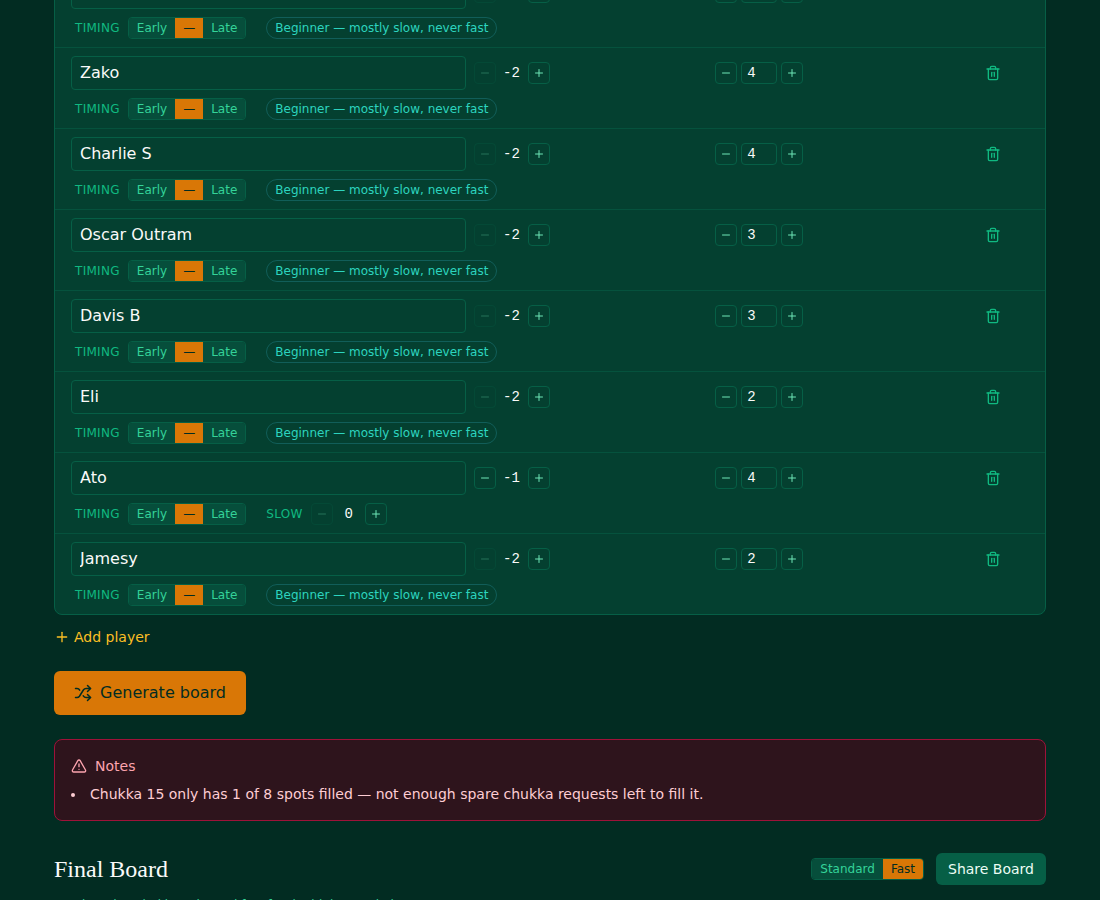
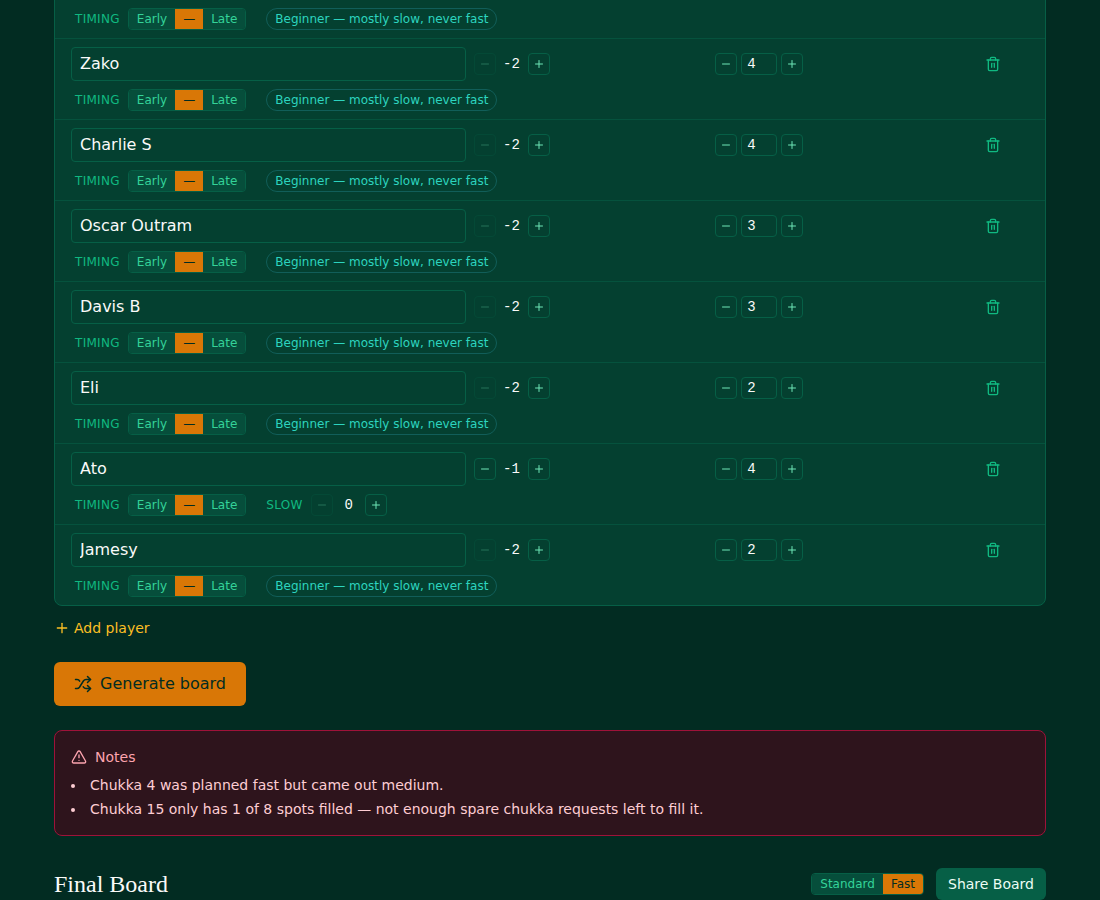
Club split rules, new F/M/S cut-offs, prefer 1.5+ anchors
From the club's own rules read off its boards:

- Team split priority: after the hard rules, a gap over 1.5 only as a last
  resort; keep colours only within a run of back-to-back chukkas
  (switching between runs is free, and the 3-change cap counts mid-run
  changes only); a gap of 1 is acceptable, more isn't; then opposite
  numbers (snake split), then the smallest gap.
- F/M/S: fast at an average team total of 3.5 and up, slow at -2 and down,
  medium between (was over 2 / under 0). The fill's 'turning fast' check
  uses the same line.
- Beginner and slow chukkas prefer 1.5+ helpers as anchors (soft pull);
  anyone above 0 still counts.

Club rosters, 530 full chukkas: gaps over 1.5 15% -> 3%, gaps <= 0.5
55% -> 69%, opposite numbers 56% -> 72%, mid-run shirt changes 6% -> 2%,
beginner sides with a 1.5+ anchor 54% -> 66%. Sanity and fuzz unchanged.

Claude-Session: https://claude.ai/code/session_01ARK8BZUWG3PYxkSMQtkzEV

diff --git a/src/scheduler.js b/src/scheduler.js
@@ -283,6 +283,9 @@ const FAST_PULL = 300;
 const TOP_PULL = 3000;
 const TOP_OUTSIDER = 2500;
 const TOP_RESERVE = 2000;
+// Preference for 1.5-and-up "anchors" as the helpers in beginner and slow chukkas.
+const ANCHOR_MIN = 1.5;
+const ANCHOR_PULL = 3000;
 // Pull for a beginner who still needs slow chukkas into a slow chukka, until it
 // has four beginners. Beats a few chukkas of deficit, so the beginners' block
 // really is the beginners' block rather than whoever has most chukkas left.
@@ -411,6 +414,12 @@ export function fillChukkas(valid, numChukkas, capacity, paceLabels, jitter, rel
 
         if (lastPlayed[p.id] === c.index - 1 && streak[p.id] === 1) score += PAIR_BONUS;
 
+        // A beginner or slow chukka's helpers are preferably 1.5 or above (an
+        // "anchor" each side) — preferred, not required; anyone above 0 will do.
+        if ((c.pace === 'slow' || beginnersIn > 0) && helpersIn < 2 && h >= ANCHOR_MIN && countsAsHelper(p)) {
+          score += ANCHOR_PULL;
+        }
+
         // A top-group player doesn't spend, in any chukka before the top block,
         // the chukkas they're saving for it.
         if (c.pace !== 'top' && canPlayTop(p) && topFrom[c.index] > 0 && deficit <= Math.min(topReserve, topFrom[c.index])) {
@@ -446,11 +455,11 @@ export function fillChukkas(valid, numChukkas, capacity, paceLabels, jitter, rel
           // More than two beginners turns a medium chukka slow — beginners'
           // medium chukkas should actually play medium.
           score -= 1500;
-        } else if (c.players.length > 0 && avgSoFar > 0.5) {
+        } else if (c.players.length > 0 && avgSoFar > FAST_PLAYER_AVG) {
           // A medium chukka shaping up to be fast: keep slow-requesters out
           // where possible, and -1.5s and -2s out much more firmly.
-          if (n.slow > 0) score -= (avgSoFar - 0.5) * 15;
-          if (neverFast(p)) score -= (avgSoFar - 0.5) * 2000;
+          if (n.slow > 0) score -= (avgSoFar - FAST_PLAYER_AVG) * 15;
+          if (neverFast(p)) score -= (avgSoFar - FAST_PLAYER_AVG) * 2000;
         }
 
         // One helper per beginner side, in every chukka: a chukka with a
@@ -707,7 +716,7 @@ export function repairChukkas(chukkas, valid, numChukkas, actualPace) {
 export function assignColours(chukkas, valid) {
   const history = {};
   valid.forEach((p) => {
-    history[p.id] = { colour: null, streak: 0, changes: 0 };
+    history[p.id] = { colour: null, streak: 0, changes: 0, lastIndex: -2 };
   });
   let totalDiff = 0;
 
@@ -758,12 +767,12 @@ export function assignColours(chukkas, valid) {
           if (inBlue) bluePositives++;
           else whitePositives++;
         }
-        const prev = history[p.id].colour;
-        if (prev) {
-          if (inBlue && prev !== 'blue') changeCost++;
-          if (!inBlue && prev !== 'white') changeCost++;
-        }
+        // Shirt colour only has to stay the same within a run of back-to-back
+        // chukkas; switching between runs is fine.
+        const inRun = history[p.id].lastIndex === c.index - 1;
+        const prev = inRun ? history[p.id].colour : null;
         const willChange = prev && ((inBlue && prev !== 'blue') || (!inBlue && prev !== 'white'));
+        if (willChange) changeCost++;
         const prospectiveChanges = history[p.id].changes + (willChange ? 1 : 0);
         changeCapPenalty += Math.max(0, prospectiveChanges - 3);
         const pid = pairOf[p.id];
@@ -781,12 +790,15 @@ export function assignColours(chukkas, valid) {
       // rule at all. Only among splits that already keep the gap in check
       // do the other rules get to break ties: someone above 0 on each side;
       // no side below -5.5; never exceed a 2.5 total on a beginner's side;
-      // at most one helper on a beginner's side; try not to push anyone
-      // past 3 shirt changes for the day (a soft preference — an uneven team
-      // is worse than an extra shirt change); prefer keeping colours the same
-      // generally; minimise the handicap gap further; avoid stacking
-      // strong/weak pairs together. Each entry is compared in turn — only
-      // moving to the next one if the current one is tied.
+      // at most one helper on a beginner's side; a gap over 1.5 only as a
+      // last resort; try not to push anyone past 3 mid-run shirt changes for
+      // the day; keep colours the same within a run of back-to-back chukkas
+      // (switching between runs is fine); a gap of 1 is acceptable, more
+      // isn't; "opposite numbers" — rank the 8 by handicap, and each pair
+      // (1-2, 3-4, 5-6, 7-8) on opposite sides, which also puts the two best
+      // on opposite teams; and finally the smallest gap (target 0.5). Each
+      // entry is compared in turn — only moving to the next one if the
+      // current one is tied.
       const { diffCapPenalty, noPositivePenalty, weakTeamPenalty, hardCapPenalty, beginnerPenalty } = balancePenalties(
         sumBlue,
         sumWhite,
@@ -803,10 +815,12 @@ export function assignColours(chukkas, valid) {
         weakTeamPenalty,
         hardCapPenalty,
         beginnerPenalty,
+        Math.max(0, diff - 1.5),
         changeCapPenalty,
         changeCost,
-        diff,
+        Math.max(0, diff - 1),
         pairPenalty,
+        diff,
       ];
       if (!best || compareKeys(key, best.key) < 0) best = { key, diff, blueSet };
     });
@@ -823,17 +837,19 @@ export function assignColours(chukkas, valid) {
 
     blueList.forEach((p) => {
       const h = history[p.id];
-      const prev = h.colour;
-      h.changes += prev && prev !== 'blue' ? 1 : 0;
-      h.streak = prev === 'blue' ? h.streak + 1 : 1;
+      const inRun = h.lastIndex === c.index - 1;
+      h.changes += inRun && h.colour !== 'blue' ? 1 : 0;
+      h.streak = inRun && h.colour === 'blue' ? h.streak + 1 : 1;
       h.colour = 'blue';
+      h.lastIndex = c.index;
     });
     whiteList.forEach((p) => {
       const h = history[p.id];
-      const prev = h.colour;
-      h.changes += prev && prev !== 'white' ? 1 : 0;
-      h.streak = prev === 'white' ? h.streak + 1 : 1;
+      const inRun = h.lastIndex === c.index - 1;
+      h.changes += inRun && h.colour !== 'white' ? 1 : 0;
+      h.streak = inRun && h.colour === 'white' ? h.streak + 1 : 1;
       h.colour = 'white';
+      h.lastIndex = c.index;
     });
 
     c.blue = blueList;
@@ -845,11 +861,17 @@ export function assignColours(chukkas, valid) {
   return { history, totalDiff, totalChanges };
 }
 
-// Display pace, from the actual average team handicap: over 2 is fast, under
-// 0 is slow, anything else medium ('neutral').
+// Display pace, from the actual average team total (the club's F/M/S, read off
+// its boards): fast from about +1 a player (team total 3.5 and up), slow at
+// about -0.5 a player or below (team total -2 and down), medium in between
+// ('neutral').
+export const FAST_TEAM_TOTAL = 3.5;
+export const SLOW_TEAM_TOTAL = -2;
+const FAST_PLAYER_AVG = FAST_TEAM_TOTAL / TEAM_SIZE;
+
 export function displayPaceOf(roster) {
-  const avgTeamHandicap = roster.reduce((s, p) => s + hcap(p), 0) / 2;
-  return avgTeamHandicap > 2 ? 'fast' : avgTeamHandicap < 0 ? 'slow' : 'neutral';
+  const avgTeamTotal = roster.reduce((s, p) => s + hcap(p), 0) / 2;
+  return avgTeamTotal >= FAST_TEAM_TOTAL ? 'fast' : avgTeamTotal <= SLOW_TEAM_TOTAL ? 'slow' : 'neutral';
 }
 
 // ---------------------------------------------------------------------------
@@ -995,7 +1017,7 @@ export function generateBoard(players, mode = 'standard', { beginnerPlacement = 
   Object.entries(best.history).forEach(([id, h]) => {
     if (h.changes > 3) {
       const p = valid.find((pp) => pp.id === Number(id));
-      if (p) warn.push(`${p.name} changed shirts ${h.changes} times — couldn't hold it to 3 given the rest of the day's constraints.`);
+      if (p) warn.push(`${p.name} changed shirts mid-run ${h.changes} times — couldn't hold it to 3 given the rest of the day's constraints.`);
     }
   });
 

diff --git a/docs/HANDOFF.md b/docs/HANDOFF.md
@@ -75,7 +75,11 @@ at 0.85 of the way through the day (the club's board: chukkas 10–13 of 13), an
   into the block (`BEGINNER_PULL`, up to four per chukka, six at most), a slow
   chukka takes two helpers at most, and a beginner's medium chukka sits right
   next to the block as a lead-in (`BEGINNER_LEAD_IN`).
-- **0.5s count as helpers** (anything above 0), confirmed by the club.
+- **0.5s count as helpers** (anything above 0), confirmed by the club — but a
+  1.5-and-up **anchor** on each beginner side is preferred where there's one to
+  spare (`ANCHOR_PULL`, a soft pull for 1.5+ helpers into beginner and slow
+  chukkas while they still need their two helpers). Beginner sides with a 1.5+
+  anchor went from 54% to 66% on the club rosters.
 - **Top chukkas** (Top chukkas: Off / 1 / 2 / 3 setting, default 2): a block of
   chukkas aimed at the day's top group — the top 12 by handicap, ties with the
   12th included, never -1.5s or -2s — so the better players get a fast game too.
@@ -189,13 +193,20 @@ order, **highest first**:
 4. **`hardCapPenalty`** — a side with a beginner can't total more than 2.5.
 5. **`beginnerPenalty`** — a side with a beginner gets at most one helper
    (`countsAsHelper()`: above 0 and not a slow-requester).
-6. **`changeCapPenalty`** — soft cap of 3 shirt-colour changes per player, for the
-   whole day.
-7. **`changeCost`** — general preference to keep the same colour as last time.
-8. **`diff`** — fine-grained minimisation of the handicap gap, below the cap.
-9. **`pairPenalty`** — the chukka's 8 players are ranked by handicap and paired up
-   (closest-ranked together); prefer splits where each pair ends up on opposite
-   sides, so a tied sum doesn't still produce "2 strong + 2 weak" vs "4 mediums".
+6. **Gap over 1.5** — only as a last resort.
+7. **`changeCapPenalty`** — soft cap of 3 *mid-run* shirt changes per player.
+8. **`changeCost`** — keep the same colour within a run of back-to-back
+   chukkas. Switching between runs is free (the club's rule: teams can change
+   between blocks, never within one).
+9. **Gap over 1** — 1 is acceptable, more isn't.
+10. **`pairPenalty`** — "opposite numbers": rank the chukka's 8 by handicap and
+    put each pair (1-2, 3-4, 5-6, 7-8) on opposite sides. This is the snake
+    split the club's boards use, and it puts the two best on opposite teams.
+11. **`diff`** — the smallest gap, target 0.5.
+
+Measured on the club rosters (530 full chukkas): gaps over 1.5 went from 15%
+to 3%, gaps of 0.5 or less from 55% to 69%, opposite numbers from 56% to 72%,
+mid-run shirt changes from 6% to 2% of back-to-back slots.
 
 ### Stage 1b — `repairChukkas()`: swap players between chukkas
 
@@ -264,8 +275,11 @@ more on days where the strong players would otherwise be spread out.
 ## Display pace (cosmetic only)
 
 After scheduling, each chukka gets a `displayPace` (`'fast'`/`'slow'`/`'neutral'`)
-computed from the *actual resulting* average team handicap (>2 → fast, <0 → slow),
-shown as **F / M / S** above each chukka number like the club's sheets. It feeds
+computed from the *actual resulting* average team total, using the club's own
+cut-offs read off its boards: **fast at 3.5 and up** (about +1 a player),
+**slow at -2 and down** (about -0.5 a player), medium in between
+(`FAST_TEAM_TOTAL`, `SLOW_TEAM_TOTAL`). The fill's "this medium chukka is
+turning fast" check uses the same fast line. Shown as **F / M / S** above each chukka number like the club's sheets. It feeds
 the outer score (`tooFast`, `fastMiss`, `paceMismatch`) but not the fill. Don't
 confuse it with the internal `pace` field from `buildPaceLabels()` — the plan,
 which can say `'fast'` only on the Fast board.
